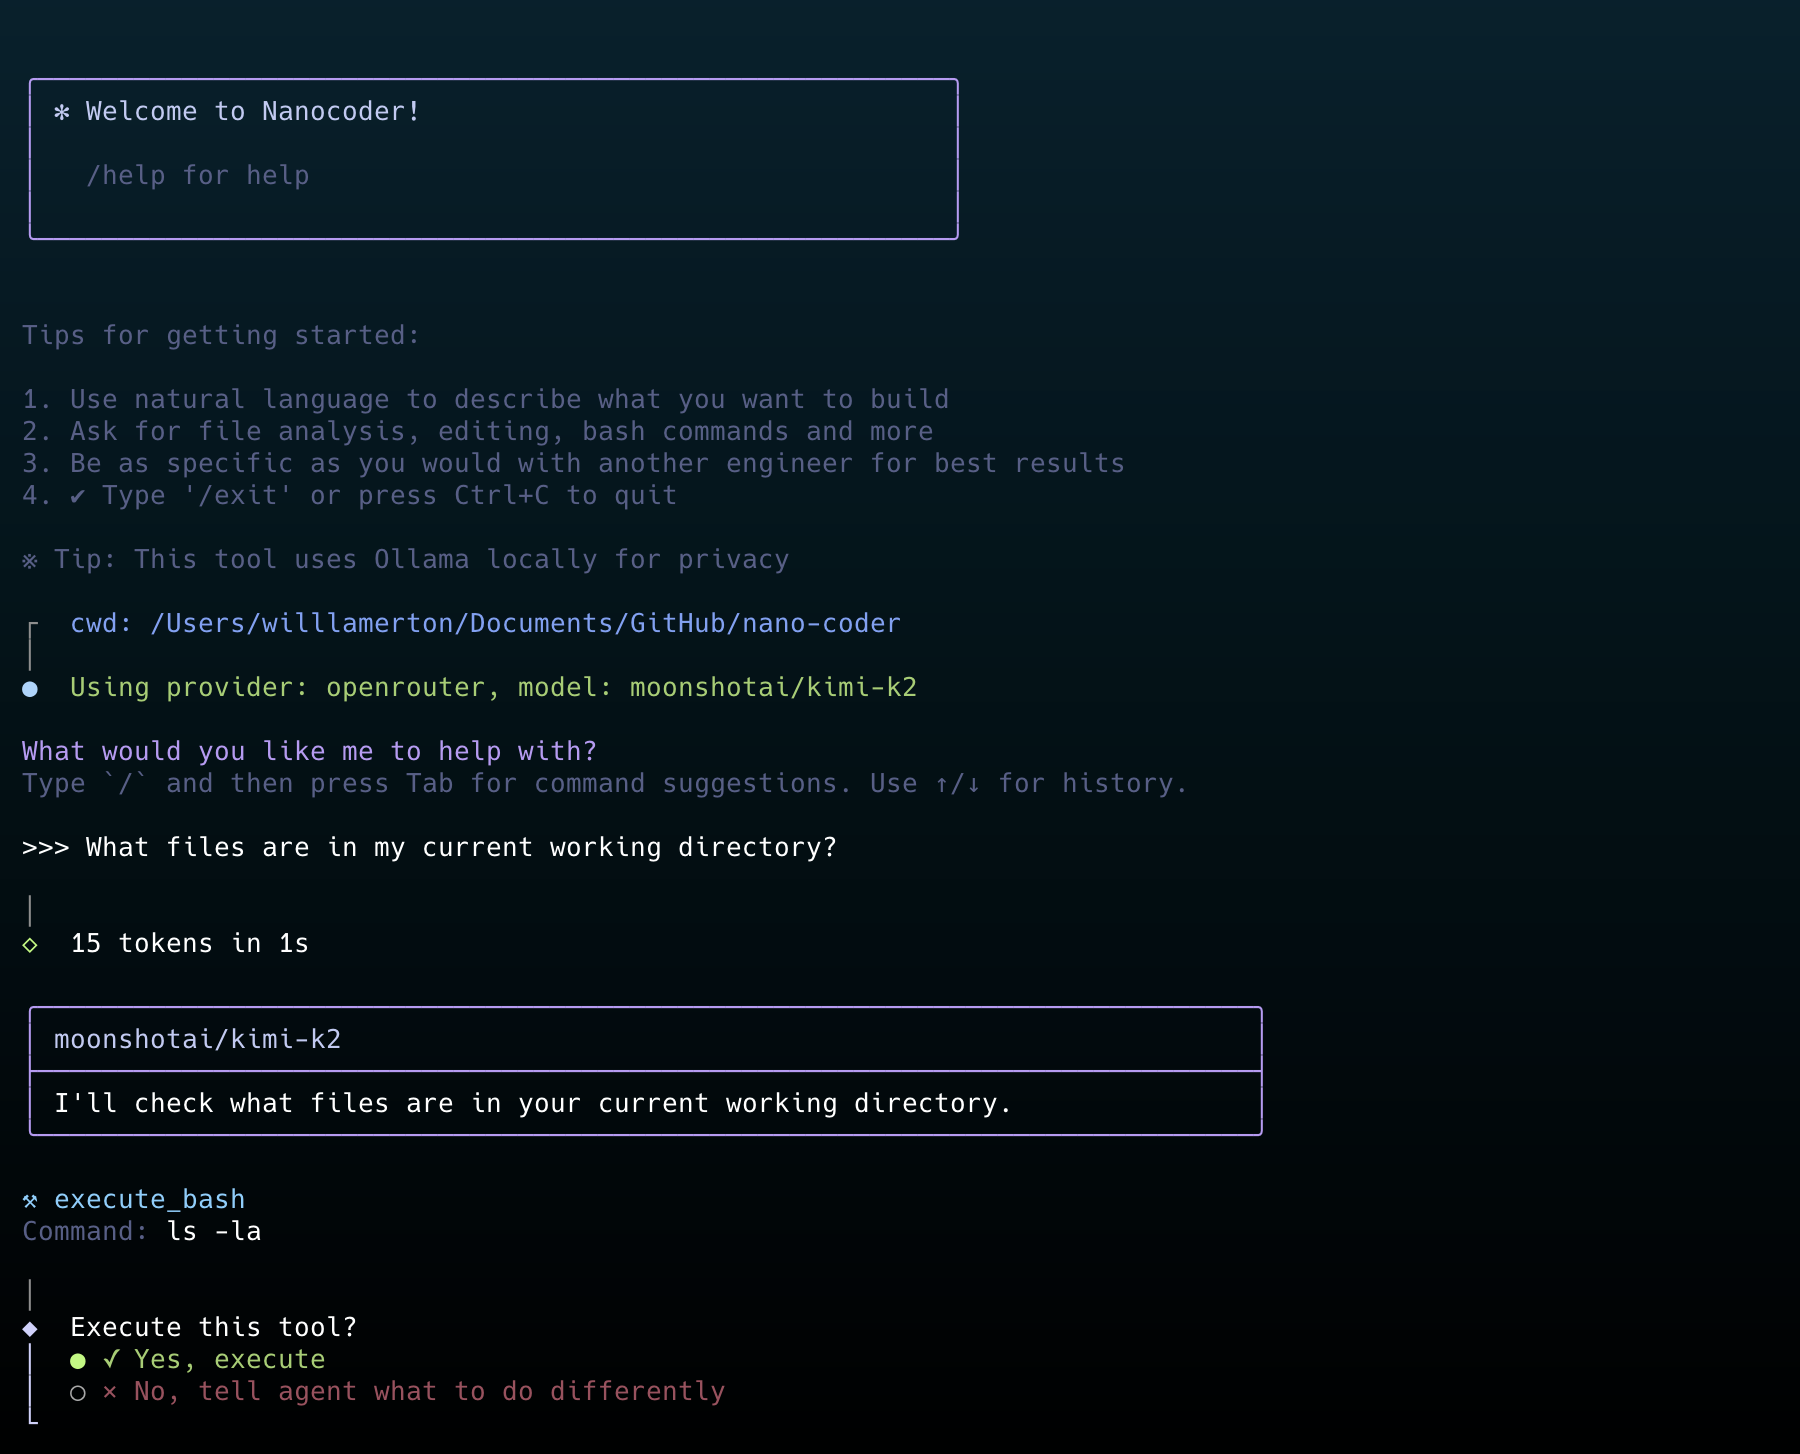
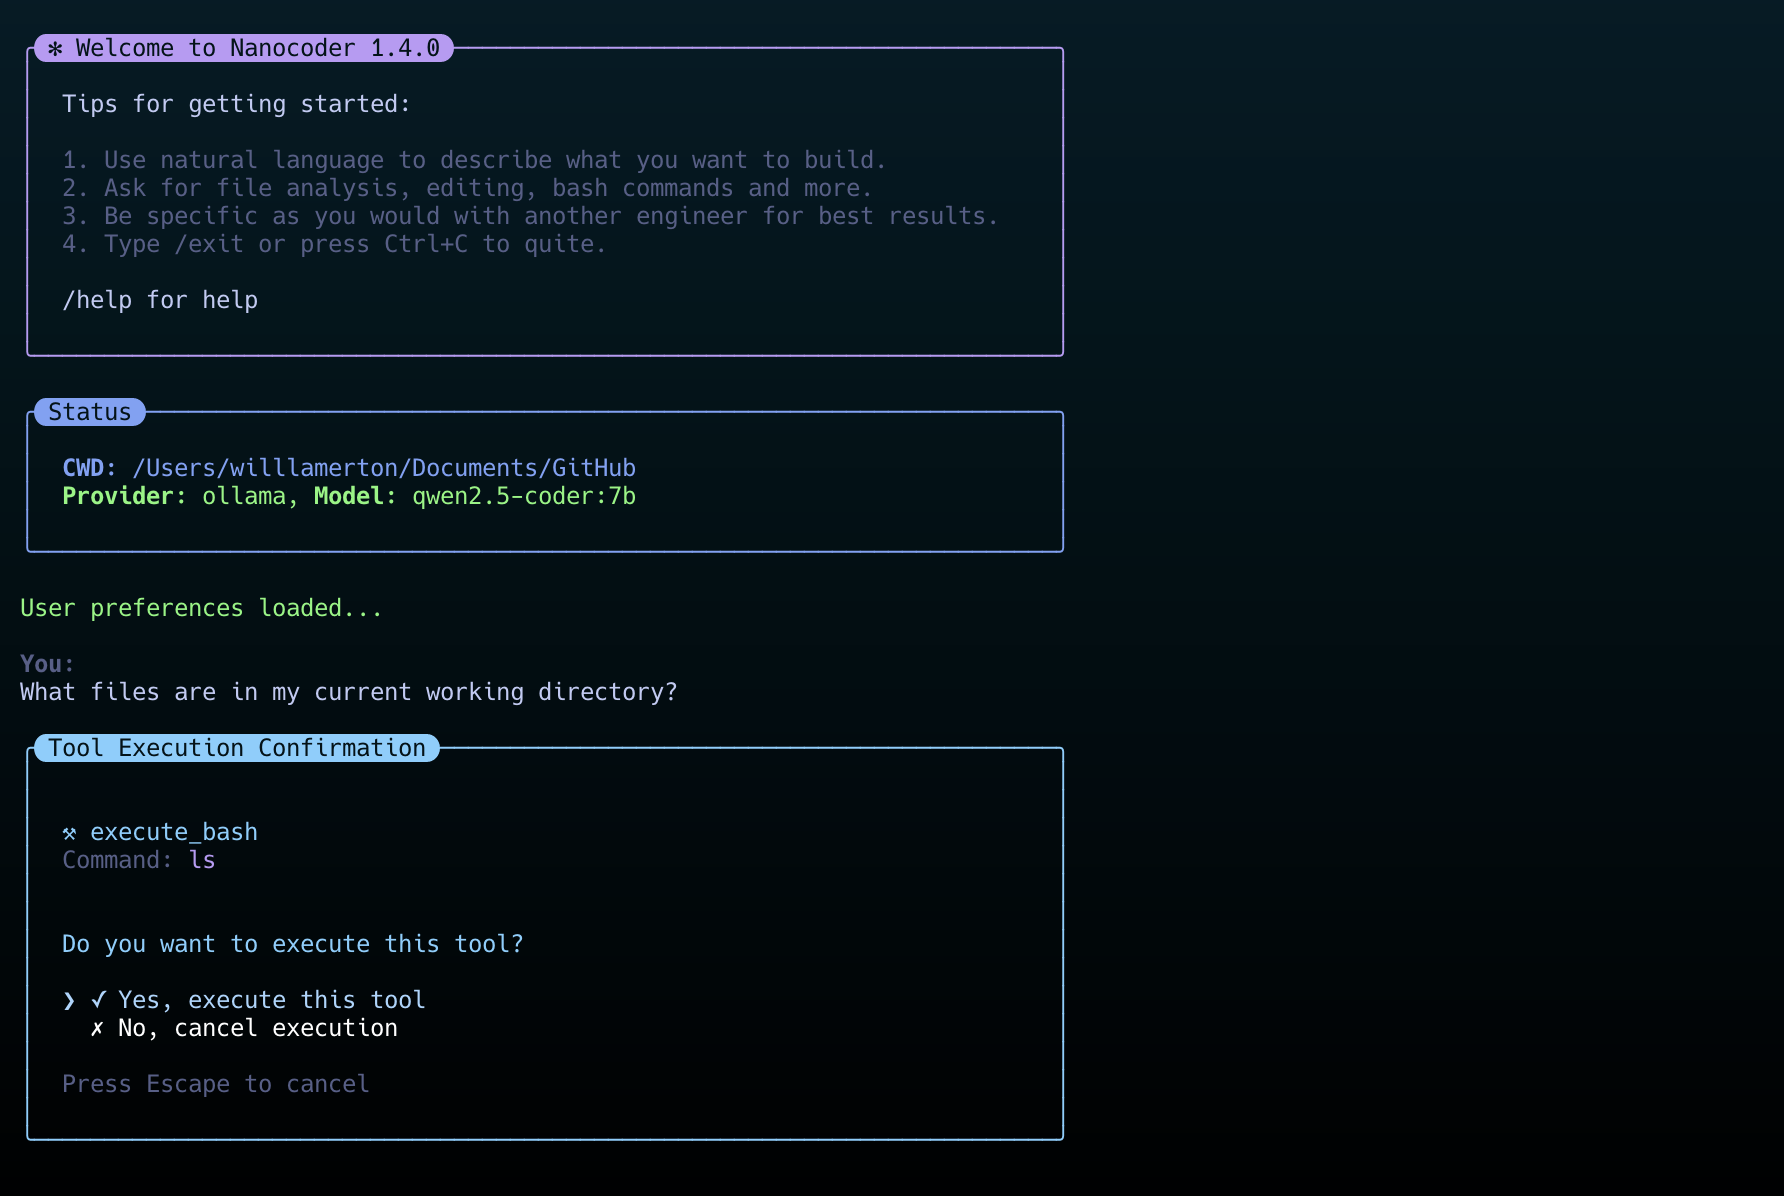
wip: getting ready for release

diff --git a/test-file.ts b/test-file.ts
@@ -1,30 +1,13 @@
 // A simple file to give to models to test Nanocoder's functionality
 
-/**
- * Greet a person by name
- * @param name - The name of the person to greet
- * @returns A greeting string including the person's name
- */
 export function greet(name: string): string {
   return `Hello ${name}!`;
 }
 
-/**
- * Add two numbers together
- * @param a - The first number
- * @param b - The second number
- * @returns The sum of a and b
- */
 export function add(a: number, b: number): number {
   return a + b;
 }
 
-/**
- * Multiply two numbers together
- * @param x - The first number
- * @param y - The second number
- * @returns The product of x and y
- */
 export function multiply(x: number, y: number): number {
   return x * y;
 }
